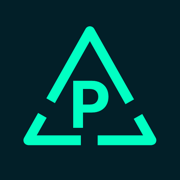
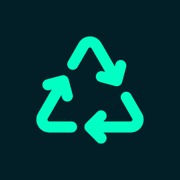
Icônes Phosphor pour l'interface et l'icône de l'app
- 20 icônes de l'interface remplacées par Phosphor (@phosphor-icons/react) :
  onglet actif en icône pleine, tuiles en bicolore, bouton + en gras
- Icône de l'app : symbole de recyclage Phosphor, menthe sur bleu nuit,
  toutes tailles (favicon, iPhone, Android, maskable)
- Cache du service worker v3 pour remplacer les anciennes icônes sur les
  téléphones où l'app est installée

Changed region(s): [[0.1111, 0.1389, 0.8889, 0.8333], [0.5556, 0.2222, 0.5833, 0.2778]]

diff --git a/src/components/icons.tsx b/src/components/icons.tsx
@@ -1,130 +1,64 @@
-import type { SVGProps } from "react";
+import type { Icon as PhosphorIcon, IconWeight } from "@phosphor-icons/react";
+import {
+  BellIcon,
+  CameraIcon,
+  CaretLeftIcon,
+  CaretRightIcon,
+  ChatCircleTextIcon,
+  CheckIcon,
+  ClockIcon,
+  ExportIcon,
+  FlagIcon,
+  GearFineIcon,
+  MagnifyingGlassIcon,
+  MapPinIcon,
+  PaperPlaneRightIcon,
+  PlusIcon,
+  RecycleIcon,
+  ShieldCheckIcon,
+  SlidersHorizontalIcon,
+  StorefrontIcon,
+  TruckIcon,
+  UserCircleIcon,
+  XIcon,
+} from "@phosphor-icons/react/dist/ssr";
 
-type IconProps = SVGProps<SVGSVGElement> & { size?: number };
+// Icônes de l'interface, tirées de Phosphor (https://phosphoricons.com).
+// Graisses : « regular » par défaut, « fill » pour l'onglet actif,
+// « duotone » pour les grandes tuiles, « bold » pour les actions fortes.
 
-function Icon({ size = 22, children, ...props }: IconProps) {
-  return (
-    <svg
-      width={size}
-      height={size}
-      viewBox="0 0 24 24"
-      fill="none"
-      stroke="currentColor"
-      strokeWidth={1.8}
-      strokeLinecap="round"
-      strokeLinejoin="round"
-      aria-hidden="true"
-      {...props}
-    >
-      {children}
-    </svg>
-  );
+export type IconProps = {
+  size?: number;
+  weight?: IconWeight;
+  className?: string;
+};
+
+function icone(Composant: PhosphorIcon, nom: string) {
+  function Icone({ size = 22, weight = "regular", className }: IconProps) {
+    return <Composant size={size} weight={weight} className={className} aria-hidden="true" />;
+  }
+  Icone.displayName = nom;
+  return Icone;
 }
 
-export const IconMarket = (p: IconProps) => (
-  <Icon {...p}>
-    <path d="M3 9l1.5-5h15L21 9" />
-    <path d="M3 9h18v2a3 3 0 0 1-6 0 3 3 0 0 1-6 0 3 3 0 0 1-6 0z" />
-    <path d="M5 13v7h14v-7" />
-  </Icon>
-);
-export const IconTruck = (p: IconProps) => (
-  <Icon {...p}>
-    <path d="M2 6h11v10H2z" />
-    <path d="M13 9h4l4 4v3h-8" />
-    <circle cx="6" cy="18" r="2" />
-    <circle cx="17" cy="18" r="2" />
-  </Icon>
-);
-export const IconGrinder = (p: IconProps) => (
-  <Icon {...p}>
-    <path d="M4 4h16l-3 7H7z" />
-    <circle cx="9" cy="15" r="3" />
-    <circle cx="15" cy="15" r="3" />
-    <path d="M9 18v3M15 18v3" />
-  </Icon>
-);
-export const IconChat = (p: IconProps) => (
-  <Icon {...p}>
-    <path d="M4 5h16v11H9l-5 4z" />
-  </Icon>
-);
-export const IconPlus = (p: IconProps) => (
-  <Icon {...p}>
-    <path d="M12 5v14M5 12h14" />
-  </Icon>
-);
-export const IconBell = (p: IconProps) => (
-  <Icon {...p}>
-    <path d="M6 16V11a6 6 0 1 1 12 0v5l2 2H4z" />
-    <path d="M10 20a2 2 0 0 0 4 0" />
-  </Icon>
-);
-export const IconUser = (p: IconProps) => (
-  <Icon {...p}>
-    <circle cx="12" cy="8" r="4" />
-    <path d="M4 21a8 8 0 0 1 16 0" />
-  </Icon>
-);
-export const IconSearch = (p: IconProps) => (
-  <Icon {...p}>
-    <circle cx="11" cy="11" r="7" />
-    <path d="M20 20l-4-4" />
-  </Icon>
-);
-export const IconSliders = (p: IconProps) => (
-  <Icon {...p}>
-    <path d="M4 7h10M18 7h2M4 17h4M12 17h8" />
-    <circle cx="16" cy="7" r="2" />
-    <circle cx="10" cy="17" r="2" />
-  </Icon>
-);
-export const IconBack = (p: IconProps) => (
-  <Icon {...p}>
-    <path d="M15 5l-7 7 7 7" />
-  </Icon>
-);
-export const IconChevron = (p: IconProps) => (
-  <Icon {...p}>
-    <path d="M9 5l7 7-7 7" />
-  </Icon>
-);
-export const IconPin = (p: IconProps) => (
-  <Icon {...p}>
-    <path d="M12 21s-7-6.5-7-12a7 7 0 0 1 14 0c0 5.5-7 12-7 12z" />
-    <circle cx="12" cy="9" r="2.5" />
-  </Icon>
-);
-export const IconFlag = (p: IconProps) => (
-  <Icon {...p}>
-    <path d="M5 21V4h12l-2 4 2 4H5" />
-  </Icon>
-);
-export const IconCheck = (p: IconProps) => (
-  <Icon {...p}>
-    <path d="M5 12l5 5 9-10" />
-  </Icon>
-);
-export const IconSend = (p: IconProps) => (
-  <Icon {...p}>
-    <path d="M4 12l16-8-6 16-3-7z" />
-  </Icon>
-);
-export const IconCamera = (p: IconProps) => (
-  <Icon {...p}>
-    <path d="M4 7h4l2-3h4l2 3h4v12H4z" />
-    <circle cx="12" cy="13" r="3.5" />
-  </Icon>
-);
-export const IconShield = (p: IconProps) => (
-  <Icon {...p}>
-    <path d="M12 3l8 3v6c0 4.5-3.5 8-8 9-4.5-1-8-4.5-8-9V6z" />
-    <path d="M9 12l2 2 4-4" />
-  </Icon>
-);
-export const IconClock = (p: IconProps) => (
-  <Icon {...p}>
-    <circle cx="12" cy="12" r="8" />
-    <path d="M12 8v4l3 2" />
-  </Icon>
-);
+export const IconMarket = icone(StorefrontIcon, "IconMarket");
+export const IconTruck = icone(TruckIcon, "IconTruck");
+export const IconGrinder = icone(GearFineIcon, "IconGrinder");
+export const IconChat = icone(ChatCircleTextIcon, "IconChat");
+export const IconPlus = icone(PlusIcon, "IconPlus");
+export const IconBell = icone(BellIcon, "IconBell");
+export const IconUser = icone(UserCircleIcon, "IconUser");
+export const IconSearch = icone(MagnifyingGlassIcon, "IconSearch");
+export const IconSliders = icone(SlidersHorizontalIcon, "IconSliders");
+export const IconBack = icone(CaretLeftIcon, "IconBack");
+export const IconChevron = icone(CaretRightIcon, "IconChevron");
+export const IconPin = icone(MapPinIcon, "IconPin");
+export const IconFlag = icone(FlagIcon, "IconFlag");
+export const IconCheck = icone(CheckIcon, "IconCheck");
+export const IconSend = icone(PaperPlaneRightIcon, "IconSend");
+export const IconCamera = icone(CameraIcon, "IconCamera");
+export const IconShield = icone(ShieldCheckIcon, "IconShield");
+export const IconClock = icone(ClockIcon, "IconClock");
+export const IconClose = icone(XIcon, "IconClose");
+export const IconShare = icone(ExportIcon, "IconShare");
+export const IconRecycle = icone(RecycleIcon, "IconRecycle");

diff --git a/src/components/install-app.tsx b/src/components/install-app.tsx
@@ -3,7 +3,7 @@
 import { usePathname } from "next/navigation";
 import { useState, useSyncExternalStore } from "react";
 import { buttonClass } from "./button";
-import { IconPlus } from "./icons";
+import { IconClose, IconPlus, IconShare } from "./icons";
 
 // L'évènement d'installation de Chrome/Android (absent des types DOM).
 type InstallEvent = Event & {
@@ -68,15 +68,6 @@ function masqueRecemment() {
   }
 }
 
-function IconPartager() {
-  return (
-    <svg width="18" height="18" viewBox="0 0 24 24" fill="none" stroke="currentColor" strokeWidth="1.8" strokeLinecap="round" strokeLinejoin="round" aria-hidden="true" className="inline -mt-1">
-      <path d="M12 3v12M8 7l4-4 4 4" />
-      <path d="M6 11H5v10h14V11h-1" />
-    </svg>
-  );
-}
-
 function InstructionsIos({ onClose }: { onClose: () => void }) {
   return (
     <div className="fixed inset-0 z-50 flex items-end bg-ink/70 backdrop-blur-sm md:items-center md:justify-center" onClick={onClose}>
@@ -94,7 +85,7 @@ function InstructionsIos({ onClose }: { onClose: () => void }) {
           <li className="flex gap-3">
             <span className="grid size-7 shrink-0 place-items-center rounded-full border border-teal font-mono text-xs text-teal">1</span>
             <span>
-              Touchez <strong className="text-foreground">Partager</strong> <IconPartager /> dans la barre de Safari.
+              Touchez <strong className="text-foreground">Partager</strong> <IconShare size={18} className="inline -mt-1" /> dans la barre de Safari.
             </span>
           </li>
           <li className="flex gap-3">
@@ -172,7 +163,7 @@ export function InstallBanner() {
           aria-label="Masquer"
           className="grid size-9 shrink-0 place-items-center rounded-lg text-subtle hover:bg-line hover:text-foreground"
         >
-          <IconPlus size={18} className="rotate-45" />
+          <IconClose size={18} />
         </button>
       </div>
       {aide && <InstructionsIos onClose={() => setAide(false)} />}

diff --git a/src/app/page.tsx b/src/app/page.tsx
@@ -62,7 +62,7 @@ export default async function Home() {
           className="flex items-center gap-4 rounded-2xl border border-line bg-surface/60 p-4 transition hover:border-teal"
         >
           <span className="grid size-12 shrink-0 place-items-center rounded-xl bg-teal/15 text-teal">
-            <IconTruck />
+            <IconTruck size={26} weight="duotone" />
           </span>
           <span className="min-w-0 flex-1">
             <span className="block font-medium text-foreground">Trouver un transporteur</span>
@@ -75,7 +75,7 @@ export default async function Home() {
           className="flex items-center gap-4 rounded-2xl border border-line bg-surface/60 p-4 transition hover:border-teal"
         >
           <span className="grid size-12 shrink-0 place-items-center rounded-xl bg-teal/15 text-teal">
-            <IconGrinder />
+            <IconGrinder size={26} weight="duotone" />
           </span>
           <span className="min-w-0 flex-1">
             <span className="block font-medium text-foreground">Faire broyer la matière</span>

diff --git a/src/components/nav.tsx b/src/components/nav.tsx
@@ -101,7 +101,7 @@ export function BottomNav() {
                   aria-label={label}
                   className="-mt-7 grid size-14 place-items-center rounded-2xl bg-mint text-ink shadow-lg shadow-mint/20 ring-4 ring-background transition active:scale-95"
                 >
-                  <Icon size={26} strokeWidth={2.2} />
+                  <Icon size={26} weight="bold" />
                 </Link>
               ) : (
                 <Link
@@ -111,7 +111,7 @@ export function BottomNav() {
                     active ? "text-accent" : "text-subtle"
                   }`}
                 >
-                  <Icon />
+                  <Icon weight={active ? "fill" : "regular"} />
                   {label}
                   {badge ? (
                     <span className="absolute top-0 right-3 grid min-w-4 place-items-center rounded-full bg-coral px-1 font-mono text-[10px] leading-4 text-white">

diff --git a/src/app/publier/page.tsx b/src/app/publier/page.tsx
@@ -35,7 +35,7 @@ export default function PublierPage() {
               className="flex items-center gap-4 rounded-2xl border border-line bg-surface/60 p-5 transition hover:border-accent active:scale-[0.99]"
             >
               <span className="grid size-14 shrink-0 place-items-center rounded-2xl bg-mint/10 text-accent">
-                <Icon size={26} />
+                <Icon size={30} weight="duotone" />
               </span>
               <span className="min-w-0 flex-1">
                 <span className="block text-[17px] font-medium text-foreground">{titre}</span>

diff --git a/src/app/compte/page.tsx b/src/app/compte/page.tsx
@@ -118,7 +118,7 @@ export default async function ComptePage() {
                 href={href}
                 className="flex items-center gap-4 rounded-2xl border border-line bg-surface/60 p-4 transition hover:border-teal"
               >
-                <Icon className="text-teal" />
+                <Icon size={24} weight="duotone" className="text-teal" />
                 <span className="min-w-0 flex-1">
                   <span className="block font-medium text-foreground">{label}</span>
                   <span className="block text-sm text-muted">{detail}</span>

diff --git a/src/app/transport/page.tsx b/src/app/transport/page.tsx
@@ -82,7 +82,7 @@ export default async function TransportPage({ searchParams }: PageProps<"/transp
                 <Card className="p-4">
                   <div className="flex items-start gap-3">
                     <span className="grid size-11 shrink-0 place-items-center rounded-xl bg-teal/15 text-teal">
-                      <IconTruck />
+                      <IconTruck size={24} weight="duotone" />
                     </span>
                     <div className="min-w-0 flex-1">
                       <div className="flex items-start justify-between gap-2">

diff --git a/src/app/notifications/page.tsx b/src/app/notifications/page.tsx
@@ -34,7 +34,7 @@ export default function NotificationsPage() {
                 }`}
               >
                 <span className={`grid size-10 shrink-0 place-items-center rounded-xl ${n.lu ? "bg-surface text-subtle" : "bg-mint/15 text-accent"}`}>
-                  <Icon size={20} />
+                  <Icon size={20} weight={n.lu ? "regular" : "fill"} />
                 </span>
                 <span className="min-w-0 flex-1">
                   <span className="flex items-baseline justify-between gap-2">

diff --git a/public/sw.js b/public/sw.js
@@ -4,7 +4,7 @@
 // Les pages ne sont jamais mises en cache : elles peuvent contenir des
 // données de compte.
 
-const VERSION = "v2";
+const VERSION = "v3";
 const STATIC_CACHE = `pyromarket-static-${VERSION}`;
 const OFFLINE_URL = "/hors-ligne";
 
